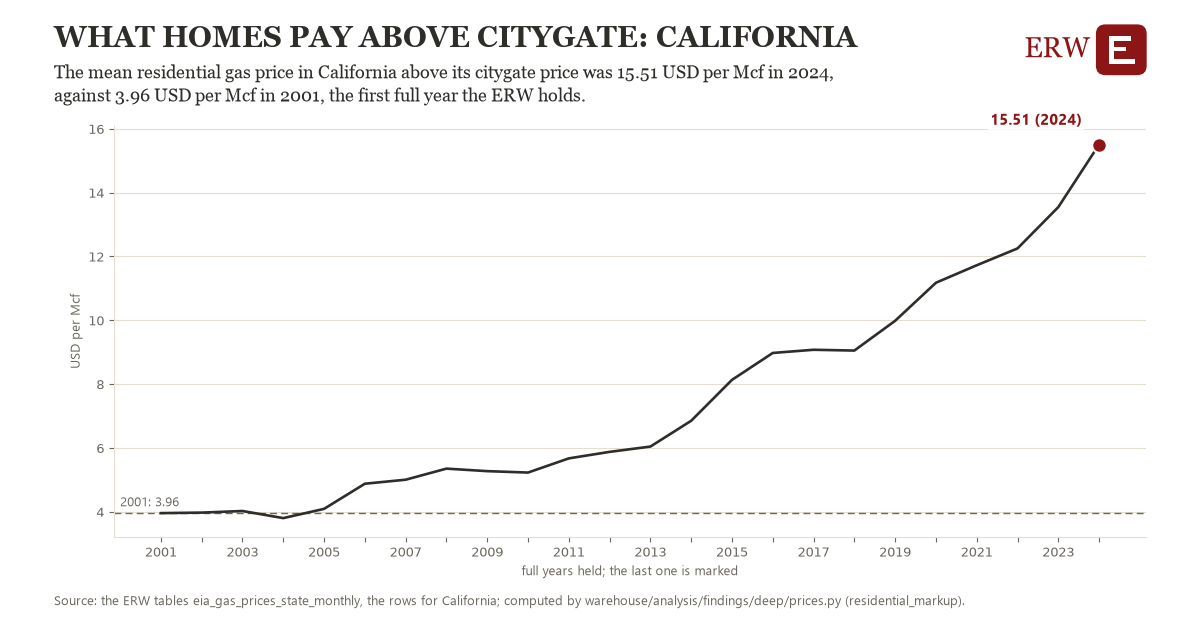
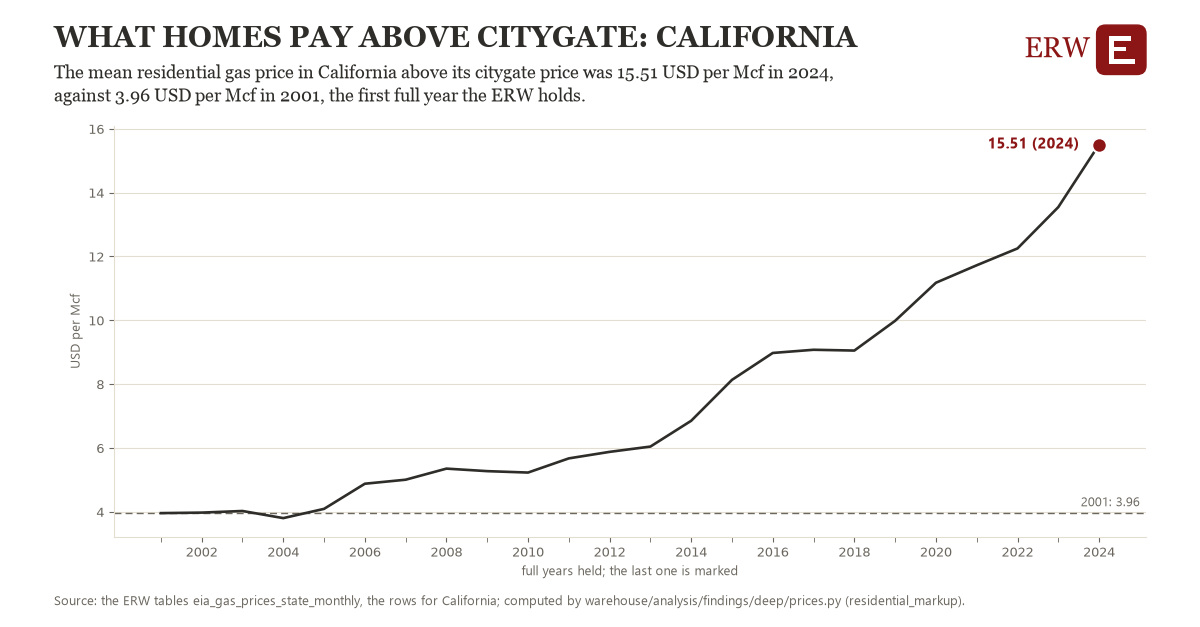
Session 9821: findings charts 151 to 160 drawn again (part 3); drafts stay drafts

diff --git a/docs/reviews/findings-charts-2026-11-20.md b/docs/reviews/findings-charts-2026-11-20.md
@@ -171,5 +171,15 @@ Energy Research Warehouse (ERW). Written by the desktop's fourth window, session
 | 148 | [emissions_climate/co2-total-co2-worl](https://github.com/SamuelEnrique/erw/blob/main/docs/findings/emissions_climate/co2-total-co2-worl.png) | 3 (passed the audit) | nothing found | drawn again by the fixed code; the image's figure 37,928.0 is the draft's |
 | 149 | [emissions_climate/co2-gas-co2-worl](https://github.com/SamuelEnrique/erw/blob/main/docs/findings/emissions_climate/co2-gas-co2-worl.png) | 3 (passed the audit) | nothing found | drawn again by the fixed code; the image's figure 8,224.4 is the draft's |
 | 150 | [emissions_climate/co2-coal-co2-worl](https://github.com/SamuelEnrique/erw/blob/main/docs/findings/emissions_climate/co2-coal-co2-worl.png) | 3 (passed the audit) | nothing found | drawn again by the fixed code; the image's figure 17,077.1 is the draft's |
+| 151 | [tariffs_policy/seds-price-ind-sd-ca](https://github.com/SamuelEnrique/erw/blob/main/docs/findings/tariffs_policy/seds-price-ind-sd-ca.png) | 3 (passed the audit) | the first year's label (1990: 72.8) sat on the line; the marked year 2024 had no label on the axis | drawn again: label moved clear of the line; axis labels counted back from the marked year; the image's figure 215.3 is the draft's |
+| 152 | [oil_products_world/gulf-gas-gulf](https://github.com/SamuelEnrique/erw/blob/main/docs/findings/oil_products_world/gulf-gas-gulf.png) | 3 (passed the audit) | the first year's label (1996: 14,196) sat on the line; the marked year 2025 had no label on the axis | drawn again: label moved clear of the line; axis labels counted back from the marked year; the image's figure 2,079 is the draft's |
+| 153 | [tariffs_policy/seds-elec-spend-sd-us](https://github.com/SamuelEnrique/erw/blob/main/docs/findings/tariffs_policy/seds-elec-spend-sd-us.png) | 3 (passed the audit) | the first year's label (1990: 176.69) sat on the line; the marked year 2024 had no label on the axis | drawn again: label moved clear of the line; axis labels counted back from the marked year; the image's figure 511.10 is the draft's |
+| 154 | [tariffs_policy/seds-price-comm-sd-ak](https://github.com/SamuelEnrique/erw/blob/main/docs/findings/tariffs_policy/seds-price-comm-sd-ak.png) | 3 (passed the audit) | the marked year 2024 had no label on the axis | drawn again: axis labels counted back from the marked year; the image's figure 215.7 is the draft's |
+| 155 | [gas/wog-gas-wog-usa](https://github.com/SamuelEnrique/erw/blob/main/docs/findings/gas/wog-gas-wog-usa.png) | 3 (passed the audit) | nothing found | drawn again by the fixed code; the image's figure 37,767 is the draft's |
+| 156 | [oil_products_world/wog-crude-wog-can](https://github.com/SamuelEnrique/erw/blob/main/docs/findings/oil_products_world/wog-crude-wog-can.png) | 3 (passed the audit) | the marked year 2025 had no label on the axis | drawn again: axis labels counted back from the marked year; the image's figure 4,964 is the draft's |
+| 157 | [queues_deals_datacenters/withdrawn-by-type-us-type-solar-wd](https://github.com/SamuelEnrique/erw/blob/main/docs/findings/queues_deals_datacenters/withdrawn-by-type-us-type-solar-wd.png) | 3 (passed the audit) | nothing found | drawn again by the fixed code; the image's figure 76.0 is the draft's |
+| 158 | [tariffs_policy/seds-price-comm-sd-us](https://github.com/SamuelEnrique/erw/blob/main/docs/findings/tariffs_policy/seds-price-comm-sd-us.png) | 3 (passed the audit) | the first year's label (1990: 72.3) sat on the line; the marked year 2024 had no label on the axis | drawn again: label moved clear of the line; axis labels counted back from the marked year; the image's figure 127.5 is the draft's |
+| 159 | [coal_uranium_metals/wc-production-wc-worl](https://github.com/SamuelEnrique/erw/blob/main/docs/findings/coal_uranium_metals/wc-production-wc-worl.png) | 3 (passed the audit) | the first year's label (1980: 4,152.7) sat on the line | drawn again: label moved clear of the line; the image's figure 9,697.2 is the draft's |
+| 160 | [prices/residential-markup-state-res-ca](https://github.com/SamuelEnrique/erw/blob/main/docs/findings/prices/residential-markup-state-res-ca.png) | 3 (passed the audit) | the marked year 2024 had no label on the axis | drawn again: axis labels counted back from the marked year; the image's figure 15.51 is the draft's |
 
-150 charts so far.
+160 charts so far.
